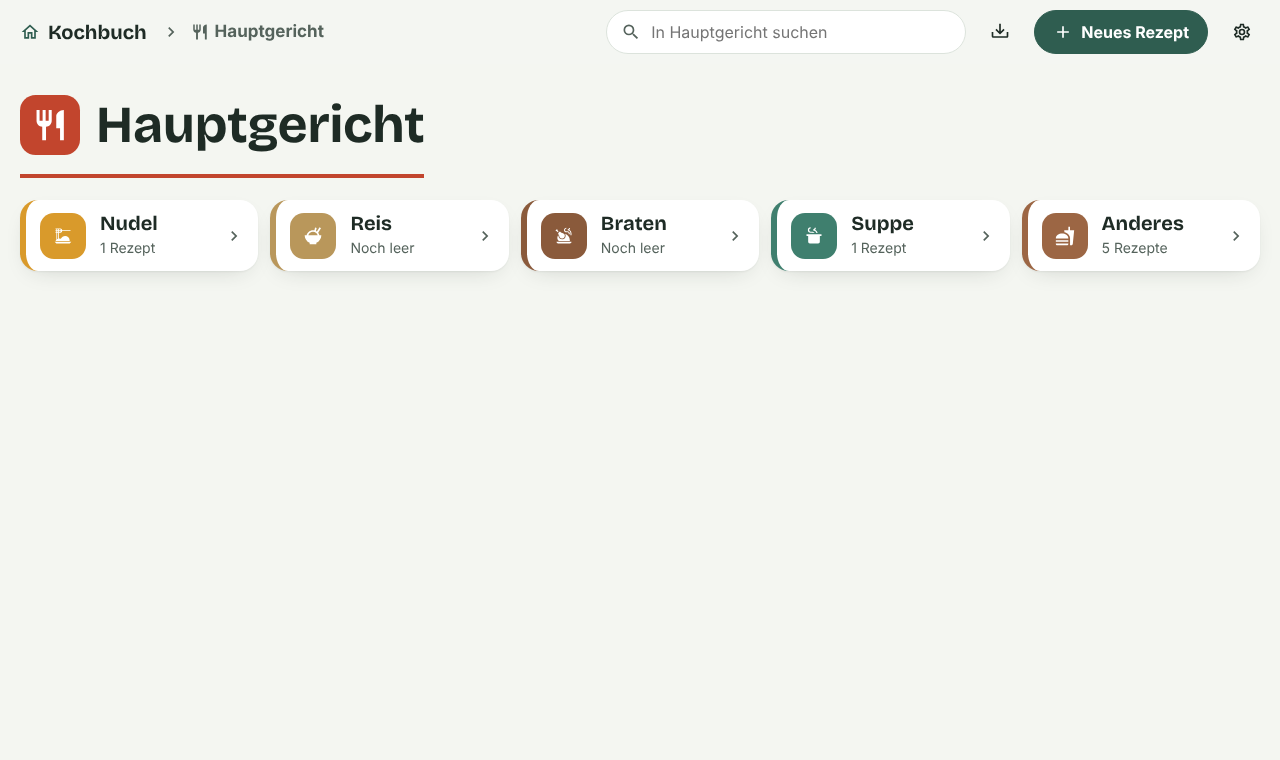
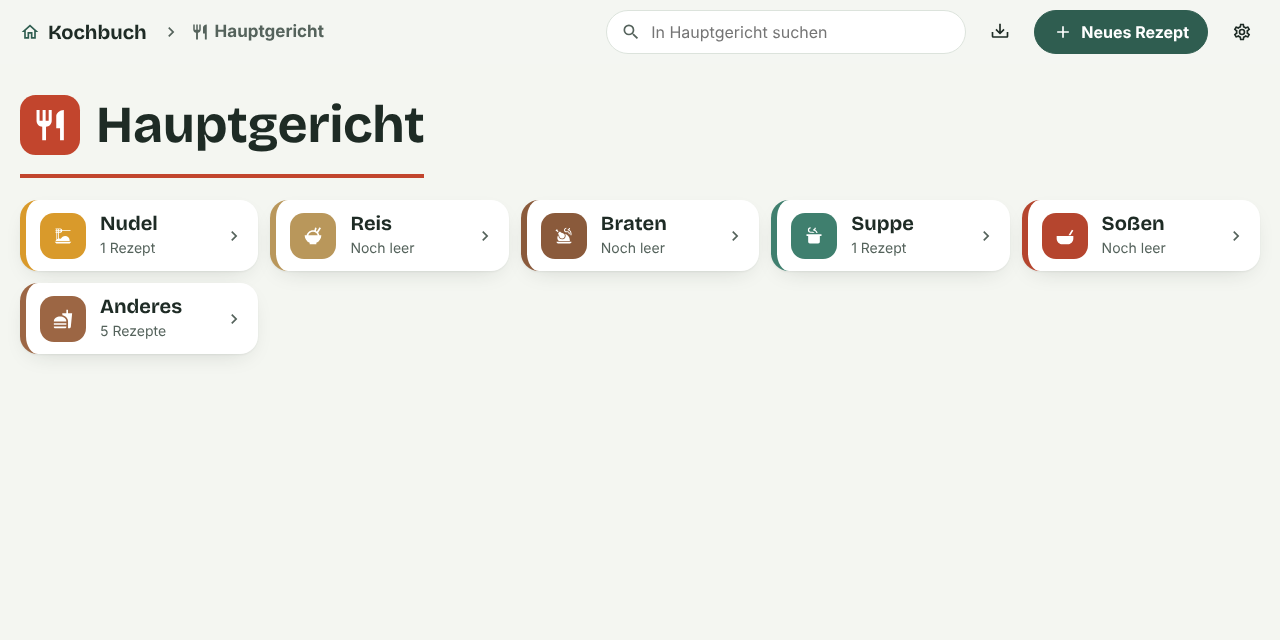
Kochbuch 1.8.0: Unterkategorie Soßen unter Hauptgericht
Claude-Session: https://claude.ai/code/session_01DF6XX5kd56oiDmByM1R25Q

diff --git a/custom_components/kochbuch/frontend/kochbuch-panel.js b/custom_components/kochbuch/frontend/kochbuch-panel.js
@@ -1,7 +1,7 @@
 /* Kochbuch – Panel für Home Assistant
  * https://github.com/domiundergroun/Kochrezepte
  */
-const KB_VERSION = "1.7.5";
+const KB_VERSION = "1.8.0";
 
 /* ------------------------------------------------------------------ Hilfen */
 const esc = (v) =>

diff --git a/custom_components/kochbuch/store.py b/custom_components/kochbuch/store.py
@@ -167,6 +167,9 @@ class KochbuchStore:
             if not settings.get("categories_v17"):
                 self._migrate_categories_v17()
                 await self._store.async_save(self._data())
+            if not settings.get("categories_v18"):
+                self._migrate_categories_v18()
+                await self._store.async_save(self._data())
         await self.hass.async_add_executor_job(
             lambda: os.makedirs(self.images_path, exist_ok=True)
         )
@@ -199,6 +202,33 @@ class KochbuchStore:
                 recipe["category"] = remap[recipe["category"]]
         self.settings["categories_v17"] = True
         _LOGGER.info("Kochbuch: Kategorien auf neue Struktur umgestellt (%s zugeordnet)", len(remap))
+
+    def _migrate_categories_v18(self) -> None:
+        """1.8.0: Unterkategorie „Soßen“ unter Hauptgericht ergänzen (vor „Anderes“)."""
+        cats = self.settings.setdefault("categories", [])
+        self.settings["categories_v18"] = True
+        if any(c.get("name", "").strip().lower() in ("soßen", "sossen", "saucen") for c in cats):
+            return
+        main = next(
+            (c for c in cats if c["id"] == "hauptgericht" and not c.get("parent")),
+            next((c for c in cats if c.get("name", "").strip().lower() == "hauptgericht" and not c.get("parent")), None),
+        )
+        if main is None:
+            return
+        new = next(dict(c) for c in DEFAULT_CATEGORIES if c["id"] == "sossen")
+        new["parent"] = main["id"]
+        if any(c["id"] == new["id"] for c in cats):
+            new["id"] = uuid.uuid4().hex[:8]
+        children = [i for i, c in enumerate(cats) if c.get("parent") == main["id"]]
+        anderes = next((i for i in children if cats[i].get("name", "").strip().lower() == "anderes"), None)
+        if anderes is not None:
+            pos = anderes
+        elif children:
+            pos = children[-1] + 1
+        else:
+            pos = cats.index(main) + 1
+        cats.insert(pos, new)
+        _LOGGER.info("Kochbuch: Unterkategorie „Soßen“ unter %s ergänzt", main["name"])
 
     async def _async_save(self) -> None:
         await self._store.async_save(self._data())

diff --git a/custom_components/kochbuch/const.py b/custom_components/kochbuch/const.py
@@ -1,7 +1,7 @@
 """Konstanten für die Kochbuch-Integration."""
 
 DOMAIN = "kochbuch"
-VERSION = "1.7.5"
+VERSION = "1.8.0"
 
 STORAGE_KEY = "kochbuch.rezepte"
 STORAGE_VERSION = 1
@@ -24,6 +24,7 @@ DEFAULT_CATEGORIES = [
     {"id": "reis", "name": "Reis", "icon": "mdi:rice", "color": "#B9975B", "parent": "hauptgericht"},
     {"id": "braten", "name": "Braten", "icon": "mdi:food-turkey", "color": "#8A5A3B", "parent": "hauptgericht"},
     {"id": "suppen", "name": "Suppe", "icon": "mdi:pot-steam", "color": "#3F7F6E", "parent": "hauptgericht"},
+    {"id": "sossen", "name": "Soßen", "icon": "mdi:bowl-mix", "color": "#B5452E", "parent": "hauptgericht"},
     {"id": "anderes", "name": "Anderes", "icon": "mdi:food", "color": "#9C6644", "parent": "hauptgericht"},
     {"id": "beilage", "name": "Beilage", "icon": "mdi:french-fries", "color": "#6A994E"},
     {"id": "salat", "name": "Salat", "icon": "mdi:leaf", "color": "#5E8C3F", "parent": "beilage"},
@@ -42,7 +43,8 @@ CATEGORY_ALIASES_V17 = {
     "reis": ["reis"],
     "braten": ["braten", "fleisch"],
     "suppen": ["suppen", "suppe"],
-    "anderes": ["anderes", "sossen", "soßen", "sauce", "saucen & dips"],
+    "sossen": ["sossen", "soßen", "sauce", "saucen & dips", "saucen"],
+    "anderes": ["anderes"],
     "beilage": ["beilage", "beilagen"],
     "salat": ["salat", "salate"],
     "backen": ["backen"],
@@ -57,4 +59,5 @@ DEFAULT_SETTINGS = {
     "default_servings": 4,
     "categories": DEFAULT_CATEGORIES,
     "categories_v17": True,
+    "categories_v18": True,
 }

diff --git a/README.md b/README.md
@@ -2,13 +2,13 @@
 
 Euer gemeinsames Rezeptbuch direkt in Home Assistant – mit eigener Seite in der Seitenleiste, Kochmodus fürs Küchentablet und Einkaufsliste per Knopfdruck.
 
-![Version](https://img.shields.io/badge/Version-1.7.5-2F5D50) ![HACS](https://img.shields.io/badge/HACS-Custom-F2B134)
+![Version](https://img.shields.io/badge/Version-1.8.0-2F5D50) ![HACS](https://img.shields.io/badge/HACS-Custom-F2B134)
 
 ## Was es kann
 
 - **Rezepte sammeln** mit Foto, Kategorie, Schlagworten, Zeiten, Schwierigkeit, Bewertung, Zutaten (mit Zwischenüberschriften) und Arbeitsschritten
 - **Startseite mit euren Kategorien** als große Kacheln – sonst nichts. Das Kochbuch startet leer, ohne Beispielrezepte
-- **Kategorien mit Unterkategorien**: Vorspeisen; Hauptgericht (Nudel, Reis, Braten, Suppe, Anderes); Beilage (Salat); Backen (Kuchen, Plätzchen); Nachspeise – alles in den Einstellungen änderbar
+- **Kategorien mit Unterkategorien**: Vorspeisen; Hauptgericht (Nudel, Reis, Braten, Suppe, Soßen, Anderes); Beilage (Salat); Backen (Kuchen, Plätzchen); Nachspeise – alles in den Einstellungen änderbar
 - **Favoriten zuerst**: mit dem Herz markierte Rezepte stehen in jeder Kategorie oben
 - **Kategorien verwalten** in den Einstellungen: Haupt- und Unterkategorien hinzufügen, umbenennen, Farbe und Symbol wählen, Reihenfolge ändern, löschen (Rezepte einer gelöschten Kategorie werden in eine andere verschoben)
 - **Rezeptlisten pro Kategorie** mit Suche (auch nach Zutaten) und Sortierung; oben führt „Kochbuch“ jederzeit zurück zur Startseite
@@ -64,6 +64,7 @@ anzahl: 4          # bei favoriten/neu
 
 | Version | Änderungen |
 |---|---|
+| 1.8.0 | Neue Unterkategorie „Soßen“ unter Hauptgericht (wird bei bestehenden Installationen einmalig ergänzt) |
 | 1.7.5 | Einstellungen: Sicherung und automatisches Backup in einem Bereich zusammengefasst |
 | 1.7.4 | Startseite: Kacheln zeigen nur noch die Hauptkategorie, ohne Liste der Unterkategorien |
 | 1.7.3 | Hauptkategorien zeigen nur ihre eigenen Rezepte, Rezepte der Unterkategorien nur dort (Suche findet weiterhin alles) |
